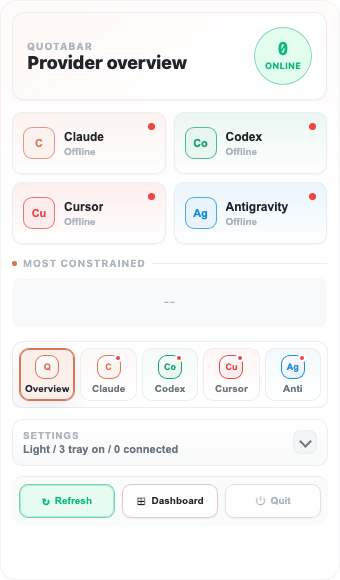
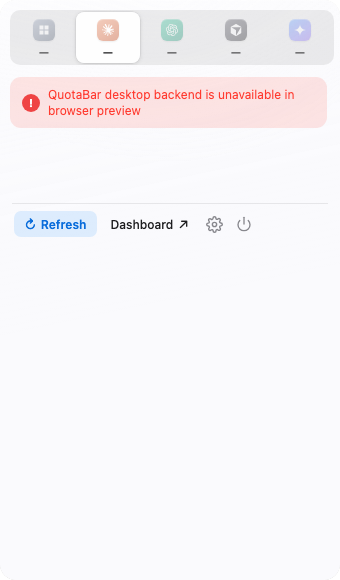
docs: refresh v0.2.0 demo proof

diff --git a/docs/demo-proof.md b/docs/demo-proof.md
@@ -6,15 +6,22 @@ The committed visual proof asset is:
 docs/assets/quotabar-no-provider-preview.png
 ```
 
-It is captured from the production React UI in browser preview at `http://127.0.0.1:1420` with a `340x580` viewport.
+The current capture was refreshed for QuotaBar `v0.2.0` on 2026-07-07 from
+the production React UI in browser preview at `http://127.0.0.1:1420` with a
+`340x580` viewport.
 
 Scope:
 
-- It does not run inside the Tauri desktop shell.
+- It does not run inside the Tauri desktop shell or desktop backend.
+- It captures the default Claude tab browser-preview state, where backend
+  calls are expected to show the unavailable-backend banner.
 - It does not use provider credentials, cookies, sessions, or local auth files.
 - It does not seed or fake provider quota percentages.
-- It should show the glass overview shell, provider cards, settings summary, and action buttons.
-- Desktop widget and notification artwork in redesign docs is static preview material, not current runtime functionality.
+- It should show the glass shell, provider switcher, backend-unavailable
+  banner, and footer action buttons.
+- It is not proof of signed or notarized desktop artifacts.
+- Desktop widget and notification artwork in redesign docs is static preview
+  material, not current runtime functionality.
 
 Refresh command:
 

diff --git a/docs/release.md b/docs/release.md
@@ -42,6 +42,10 @@ npm run dev -- --host 127.0.0.1
 npx playwright screenshot --wait-for-timeout=3500 --viewport-size=340,580 http://127.0.0.1:1420 docs/assets/quotabar-no-provider-preview.png
 ```
 
+This captures the default browser-preview state without a Tauri desktop
+backend. Do not seed local storage, provider credentials, sessions, or fake
+quota percentages for this proof.
+
 ## Artifact Workflow
 
 Use the `release-artifacts` workflow to produce downloadable bundles for

diff --git a/README.md b/README.md
@@ -29,7 +29,7 @@ QuotaBar is a Tauri v2 menubar app for monitoring Claude Code, Codex, Cursor, an
 
 ![QuotaBar browser preview without provider credentials](docs/assets/quotabar-no-provider-preview.png)
 
-This screenshot is captured from the production React UI in browser preview without a Tauri desktop backend. It intentionally includes no provider quota values, account identifiers, tokens, cookies, or sessions. Desktop widget and notification visuals are static design previews only until a runtime implementation ships. See `docs/demo-proof.md` for the capture scope and refresh steps.
+This `v0.2.0` screenshot was refreshed on 2026-07-07 from the production React UI in browser preview without a Tauri desktop backend. It intentionally shows the default unavailable-backend state and includes no provider quota values, account identifiers, tokens, cookies, or sessions. Desktop widget and notification visuals are static design previews only until a runtime implementation ships. See `docs/demo-proof.md` for the capture scope and refresh steps.
 
 ## Quota Semantics
 